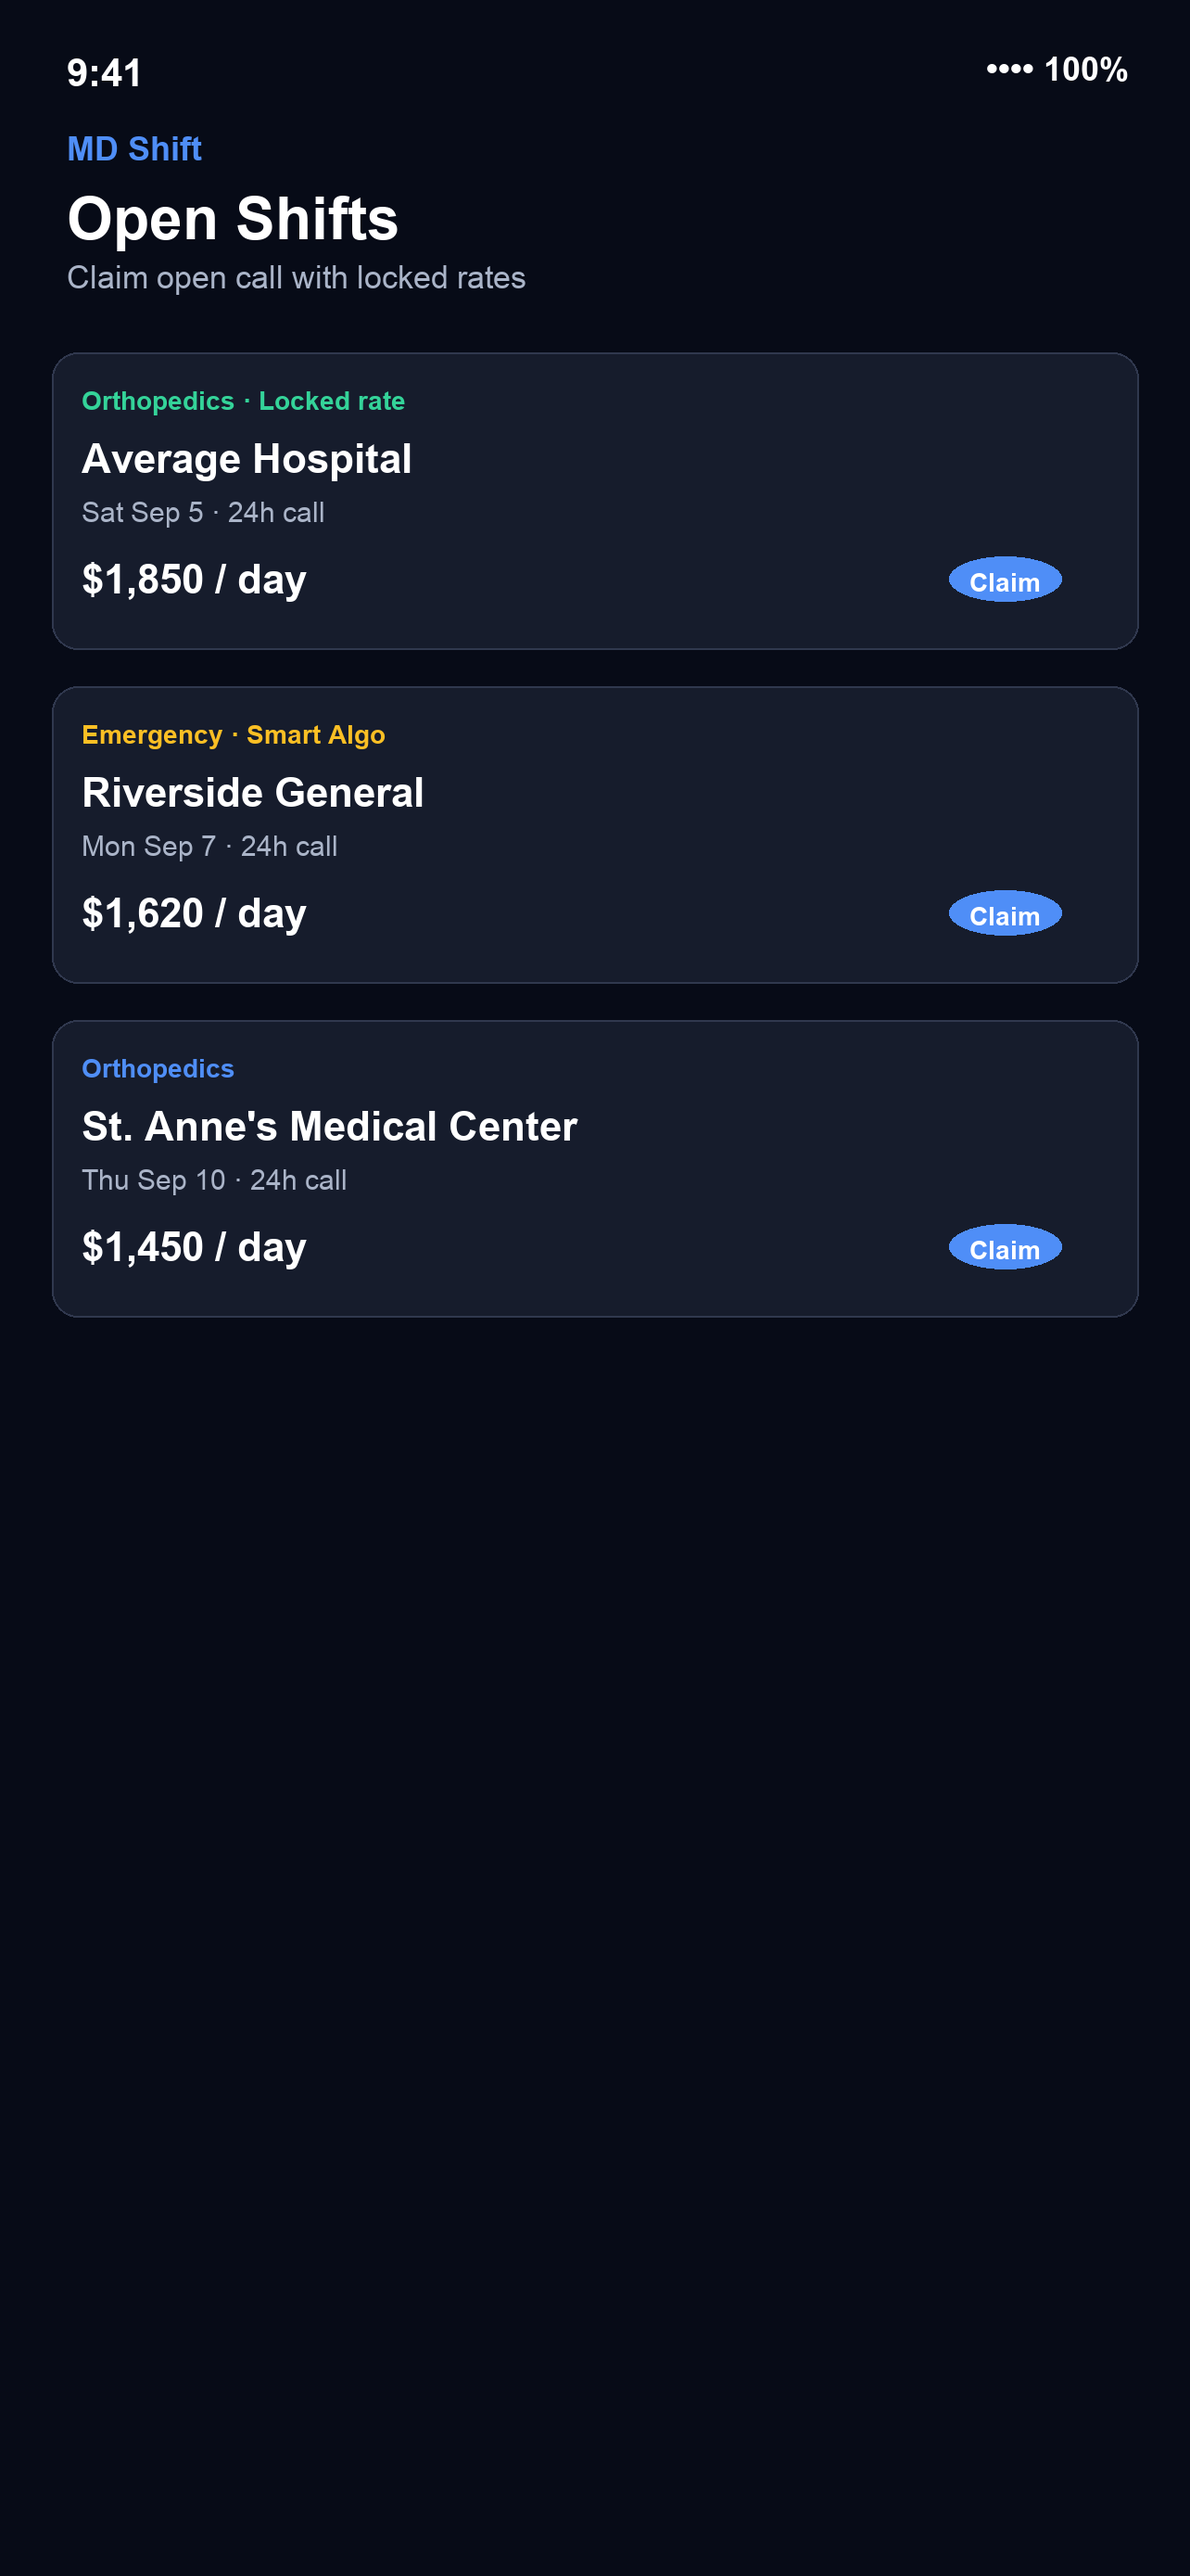
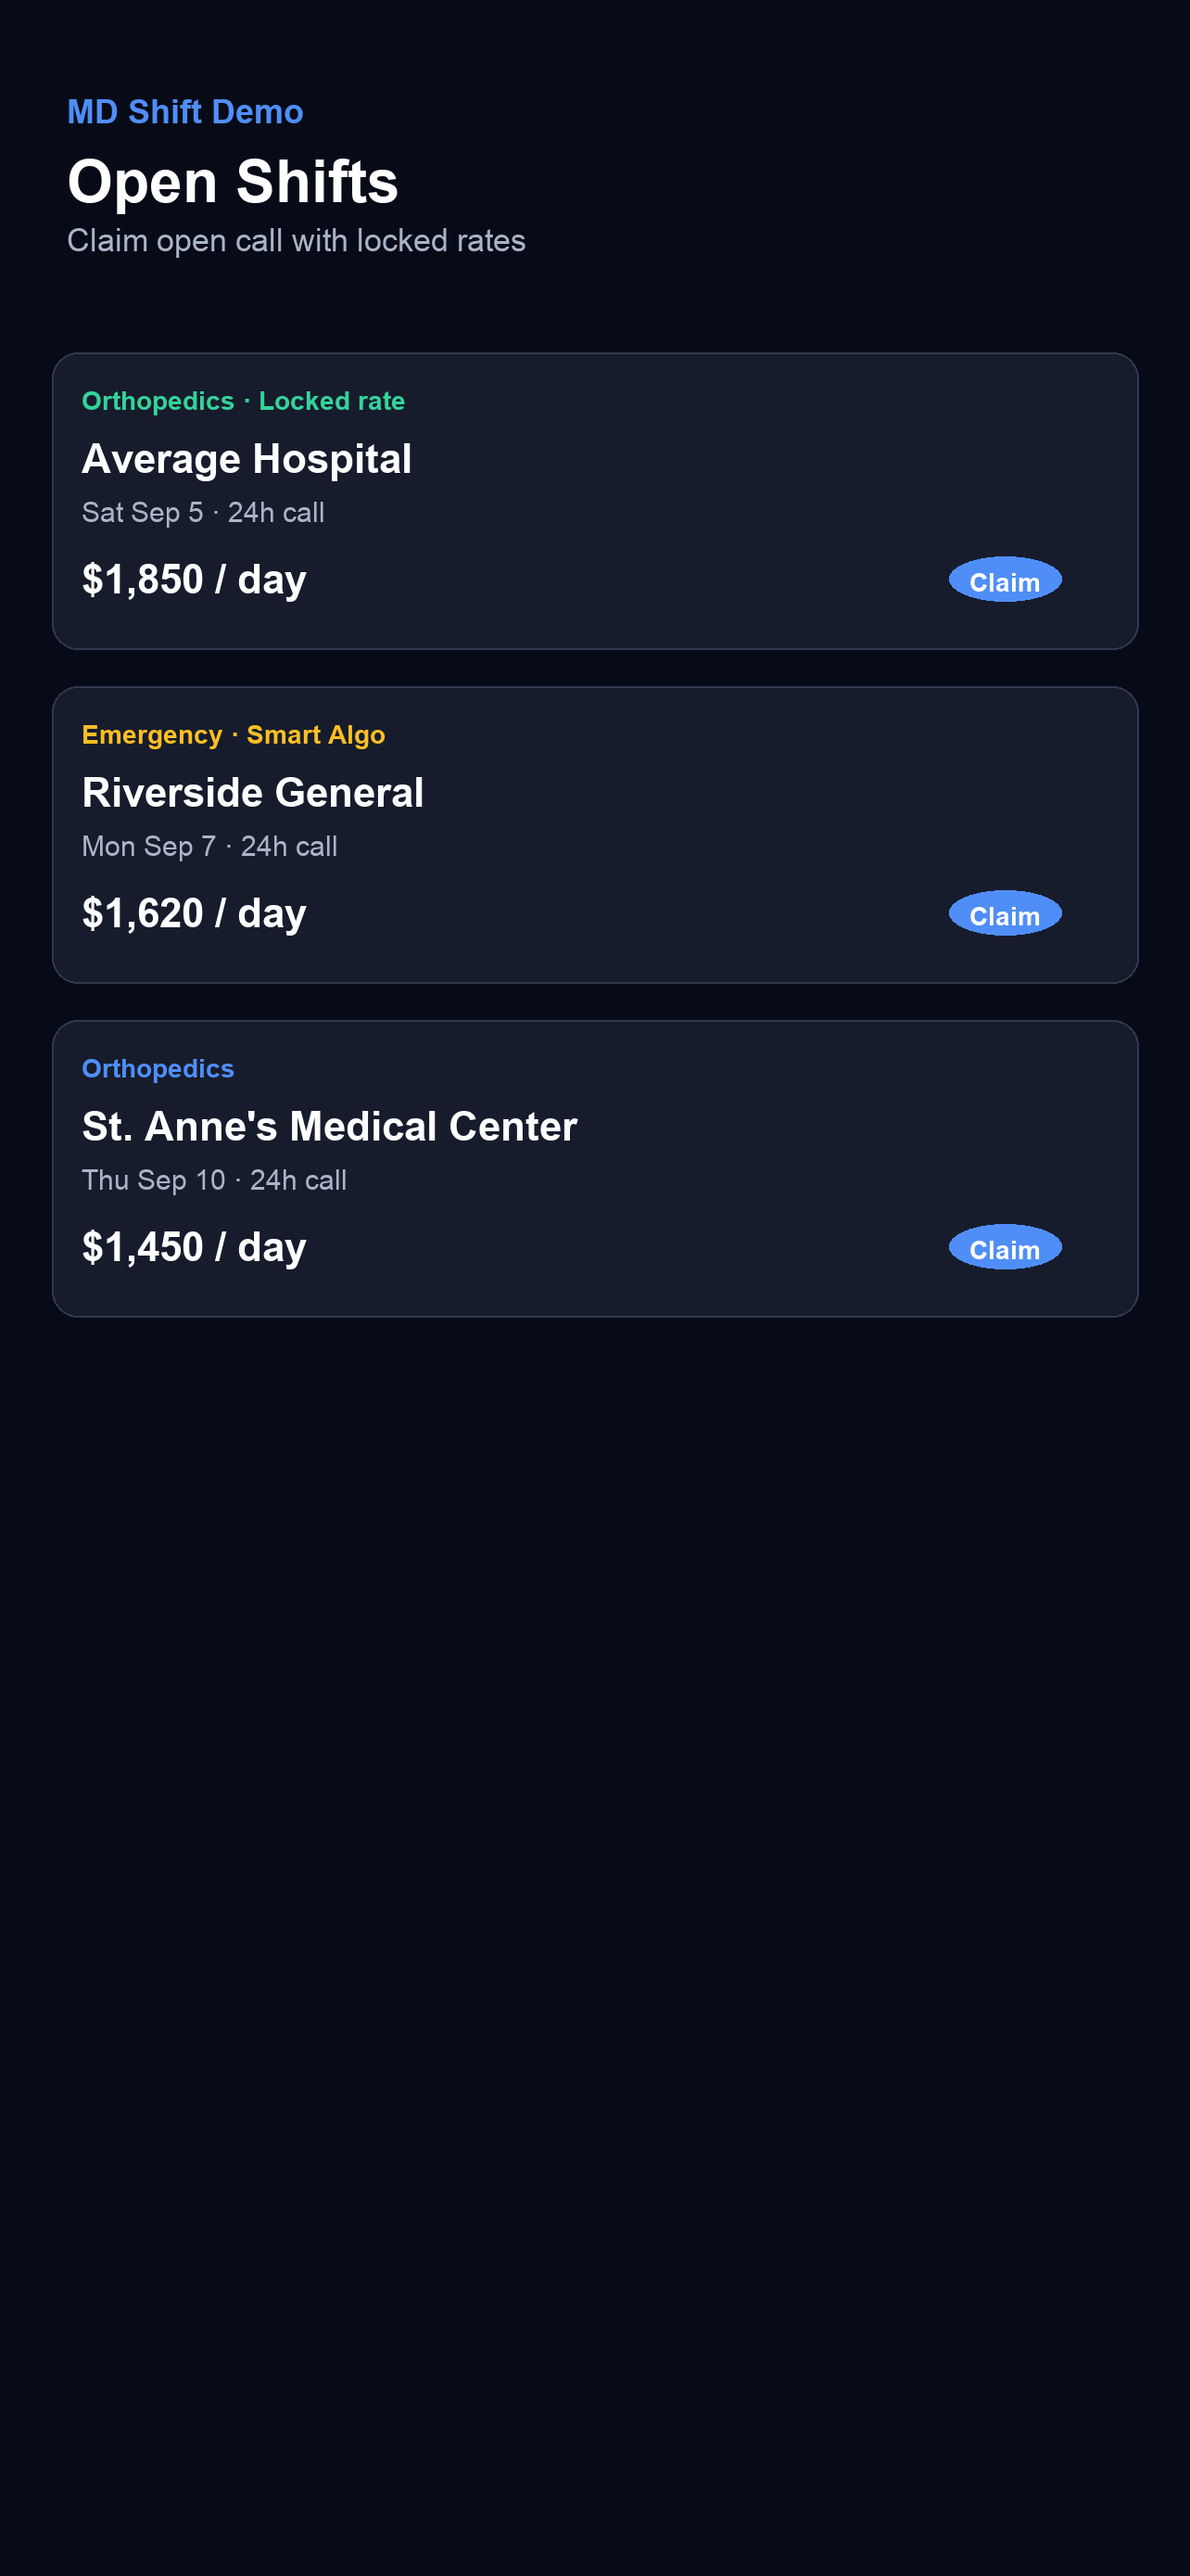
Fix App Review rejection: clean screenshots and harden Apple Sign In.
Remove mock status bars from App Store assets, bump build to 3, improve Apple/OAuth role selection and error messages for reviewers on iPad.

Changed region(s): [[0.0623, 0.0, 0.4361, 0.1238], [0.8723, 0.0, 0.9346, 0.031]]

diff --git a/on-call wizard/AuthView.swift b/on-call wizard/AuthView.swift
@@ -353,23 +353,20 @@ struct AuthView: View {
             .padding(.bottom, 24)
             .onChange(of: mode) { _, _ in errorMessage = nil }
 
-            if mode == .signUp {
-                VStack(alignment: .leading, spacing: 8) {
-                    Text("I am a")
-                        .font(.caption.weight(.semibold))
-                        .foregroundStyle(Brand.textTertiary)
-                        .textCase(.uppercase)
-                    Picker("Role", selection: $selectedRole) {
-                        Text("Doctor").tag(UserRole.doctor)
-                        Text("Hospital").tag(UserRole.hospital)
-                    }
-                    .pickerStyle(.segmented)
-                    .accessibilityLabel("Account role")
+            VStack(alignment: .leading, spacing: 8) {
+                Text("I am a")
+                    .font(.caption.weight(.semibold))
+                    .foregroundStyle(Brand.textTertiary)
+                    .textCase(.uppercase)
+                Picker("Role", selection: $selectedRole) {
+                    Text("Doctor").tag(UserRole.doctor)
+                    Text("Hospital").tag(UserRole.hospital)
                 }
-                .padding(.horizontal, 24)
-                .padding(.bottom, 20)
-                .transition(.opacity)
+                .pickerStyle(.segmented)
+                .accessibilityLabel("Account role")
             }
+            .padding(.horizontal, 24)
+            .padding(.bottom, 20)
 
             VStack(spacing: 10) {
                 Button { startGoogleSignIn() } label: {
@@ -388,9 +385,12 @@ struct AuthView: View {
                     handleAppleResult(result)
                 }
                 .signInWithAppleButtonStyle(colorScheme == .dark ? .white : .black)
+                .frame(maxWidth: .infinity)
                 .frame(height: 50)
                 .clipShape(RoundedRectangle(cornerRadius: Brand.buttonRadius, style: .continuous))
                 .disabled(isLoading || !SupabaseAuthService.shared.isConfigured)
+                .opacity(isLoading || !SupabaseAuthService.shared.isConfigured ? 0.5 : 1)
+                .allowsHitTesting(!isLoading && SupabaseAuthService.shared.isConfigured)
                 .accessibilityLabel("Continue with Apple")
             }
             .padding(.horizontal, 24)
@@ -576,13 +576,20 @@ struct AuthView: View {
         switch result {
         case .failure(let error):
             let ns = error as NSError
-            if ns.code == ASAuthorizationError.canceled.rawValue { return }
+            if ns.domain == ASAuthorizationError.errorDomain,
+               ns.code == ASAuthorizationError.canceled.rawValue { return }
+            if ns.domain == ASAuthorizationError.errorDomain,
+               ns.code == ASAuthorizationError.unknown.rawValue {
+                // Common on first-run / iPad when the sheet dismisses oddly — don't block review with a cryptic code.
+                errorMessage = "Apple Sign In did not complete. Try again, or use Explore as a doctor / hospital."
+                return
+            }
             errorMessage = error.localizedDescription
         case .success(let authorization):
             guard let credential = authorization.credential as? ASAuthorizationAppleIDCredential,
                   let tokenData = credential.identityToken,
                   let idToken = String(data: tokenData, encoding: .utf8) else {
-                errorMessage = "Apple Sign In failed."
+                errorMessage = "Apple Sign In failed. Try Explore as a doctor / hospital, or email sign-in."
                 return
             }
             isLoading = true
@@ -595,7 +602,9 @@ struct AuthView: View {
                         nonce: nonce,
                         role: selectedRole
                     )
-                    let resolved = result.email.isEmpty ? (credential.email ?? "apple-user") : result.email
+                    let resolved = result.email.isEmpty
+                        ? (credential.email ?? "apple-user-\(result.userID.uuidString.prefix(8))@privaterelay.appleid.com")
+                        : result.email
                     await MainActor.run {
                         if result.needsMfa {
                             isLoading = false

diff --git a/on-call wizard/Supabase/SupabaseConfig.swift b/on-call wizard/Supabase/SupabaseConfig.swift
@@ -78,10 +78,32 @@ struct SupabaseHTTPClient {
         let (data, response) = try await URLSession.shared.data(for: req)
         guard let http = response as? HTTPURLResponse else { throw SupabaseError.invalidResponse }
         guard (200..<300).contains(http.statusCode) else {
-            let msg = String(data: data, encoding: .utf8) ?? "HTTP \(http.statusCode)"
-            throw SupabaseError.server(msg)
+            throw SupabaseError.server(Self.humanizeError(data: data, status: http.statusCode))
         }
         return data
+    }
+
+    /// Prefer a short user-facing message over raw GoTrue / PostgREST JSON blobs.
+    private static func humanizeError(data: Data, status: Int) -> String {
+        guard let json = try? JSONSerialization.jsonObject(with: data) as? [String: Any] else {
+            return String(data: data, encoding: .utf8) ?? "HTTP \(status)"
+        }
+        let raw = (json["error_description"] as? String)
+            ?? (json["msg"] as? String)
+            ?? (json["message"] as? String)
+            ?? (json["error"] as? String)
+            ?? "HTTP \(status)"
+        let lower = raw.lowercased()
+        if lower.contains("audience") || lower.contains("unacceptable") {
+            return "Apple Sign In is not configured for this app. Please try Explore mode or email sign-in."
+        }
+        if lower.contains("nonce") {
+            return "Apple Sign In could not be verified. Please try again."
+        }
+        if lower.contains("id token") || lower.contains("id_token") || lower.contains("provider is not enabled") {
+            return "Sign in with Apple is temporarily unavailable. Use Explore as a doctor/hospital, or email sign-in."
+        }
+        return raw
     }
 
     func invokeFunction(name: String, body: [String: Any], accessToken: String? = nil) async throws -> Data {

diff --git a/docs/assets/js/views/auth.js b/docs/assets/js/views/auth.js
@@ -168,12 +168,11 @@ export function renderAuthView(state, handlers) {
           <button type="button" class="${mode === "signin" ? "active" : ""}" data-auth-mode="signin">Sign in</button>
           <button type="button" class="${mode === "signup" ? "active" : ""}" data-auth-mode="signup">Create account</button>
         </div>
-        ${mode === "signup" ? `
-          <div class="eyebrow" style="padding:0 24px 8px">I AM A</div>
-          <div class="role-pills">
-            <button type="button" class="role-pill ${state.role === "Doctor" ? "active" : ""}" data-role="Doctor">${icon("stethoscope")} Doctor</button>
-            <button type="button" class="role-pill ${state.role === "Hospital" ? "active" : ""}" data-role="Hospital">${icon("hospital")} Hospital</button>
-          </div>` : ""}
+        <div class="eyebrow" style="padding:0 24px 8px">I AM A</div>
+        <div class="role-pills">
+          <button type="button" class="role-pill ${state.role === "Doctor" ? "active" : ""}" data-role="Doctor">${icon("stethoscope")} Doctor</button>
+          <button type="button" class="role-pill ${state.role === "Hospital" ? "active" : ""}" data-role="Hospital">${icon("hospital")} Hospital</button>
+        </div>
         <div class="oauth-row">
           <button type="button" class="btn-oauth" data-oauth="google" ${state.loading || !isConfigured() ? "disabled" : ""}>
             ${googleMark()} Continue with Google

diff --git a/scripts/generate-app-store-screenshots.py b/scripts/generate-app-store-screenshots.py
@@ -50,16 +50,11 @@ def round_rect(draw: ImageDraw.ImageDraw, xy, radius: int, fill, outline=None, w
     draw.rounded_rectangle(xy, radius=radius, fill=fill, outline=outline, width=width)
 
 
-def status_bar(draw: ImageDraw.ImageDraw, y: int = 54):
-    draw.text((72, y), "9:41", font=font(42, True), fill=TEXT)
-    draw.text((W - 220, y), "•••• 100%", font=font(36, True), fill=TEXT)
-
-
 def brand_header(draw: ImageDraw.ImageDraw, title: str, subtitle: str):
-    status_bar(draw)
-    draw.text((72, 140), "MD Shift", font=font(36, True), fill=ACCENT)
-    draw.text((72, 200), title, font=font(64, True), fill=TEXT)
-    draw.text((72, 280), subtitle, font=font(34), fill=TEXT2)
+    # No fake status bar — Apple rejects non-iOS / mock status chrome (Guideline 2.3.10).
+    draw.text((72, 100), "MD Shift Demo", font=font(36, True), fill=ACCENT)
+    draw.text((72, 160), title, font=font(64, True), fill=TEXT)
+    draw.text((72, 240), subtitle, font=font(34), fill=TEXT2)
 
 
 def card(draw: ImageDraw.ImageDraw, x0, y0, x1, y1):

diff --git a/AppStore/REVIEW.md b/AppStore/REVIEW.md
@@ -12,7 +12,7 @@ Paste these into App Store Connect. Screenshots live in `../AppStoreScreenshots/
 | Primary category | Medical |
 | Secondary | Business (optional) |
 | Version | 1.0 |
-| Build | 2 |
+| Build | 3 |
 | Copyright | 2026 Edward Dunn / MD Shift |
 
 ## URLs
@@ -72,28 +72,42 @@ First release of MD Shift Demo — hospital on-call coverage, doctor shift claim
 ## App Review Information — Notes (paste as-is)
 
 ```
-MD Shift Demo schedules hospital on-call coverage for doctors and hospitals.
+Hi App Review team,
 
-HOW TO REVIEW (recommended)
-1. On the sign-in screen, tap “Explore as doctor” or “Explore as hospital”.
-2. No password required. Sample data loads so you can browse Dashboard / Alter Rates / Doctors (hospital) or Home / Open Shifts / Trades (doctor).
-3. Explore mode is labeled as sample data and is not live hospital volume.
+Thanks for the follow-up on MD Shift Demo 1.0 (3).
 
-ALTERNATE LOGINS (seeded demos)
-• Doctor: jdunn@eporthospine.com / 1234567890
-• Hospital: erdunn706@gmail.com / 1234567890
-If Supabase auth is reachable these prefer the live account; otherwise they open the same seeded walkthrough.
+SCREENSHOTS (2.3.10)
+We replaced the App Store screenshots. The previous set had a mock status bar (text signal / battery). The new set has no status bar chrome and shows the in-app UI only. Please use the updated iPhone 6.5" assets (and View All Sizes in Media Manager if needed).
 
-ADMIN PREVIEW (marketing-style screens, optional)
-• info@erdanimates.shop / 1234567890
-Opens a curated preview of core screens. Prefer Explore mode for functional review.
+SIGN IN WITH APPLE (2.1a)
+Sign in with Apple is supported on iPhone and iPad. Choose Doctor or Hospital on the sign-in screen, then Continue with Apple.
 
-Face ID may appear after a real account is created; it can be skipped / cancelled on Simulator.
+If you only need to exercise scheduling features without creating an Apple account:
+1. Tap Explore as a doctor or Explore as a hospital (no password).
+2. Or use demo login jdunn@eporthospine.com / 1234567890 (doctor) or erdunn706@gmail.com / 1234567890 (hospital).
+
+Account deletion is not in-app; users email https://mdshift.net/support/
 
 Support: https://mdshift.net/support/
 Privacy: https://mdshift.net/privacypolicy/
 Contact: erdunn706@gmail.com
 ```
+
+## Fix checklist after Sept 2026 rejection
+
+### Screenshots (2.3.10)
+1. Upload all `AppStoreScreenshots/*-1284x2778.png` to App Store Connect → Previews and Screenshots.
+2. Also open **View All Sizes in Media Manager** and replace any leftover sizes that still show a mock status bar.
+
+### Sign in with Apple (2.1a) — Supabase dashboard (required)
+Native Apple tokens use the **Bundle ID** as audience. In Supabase:
+
+1. Authentication → Providers → **Apple** → Enabled
+2. **Client IDs** must include BOTH (Services ID first):
+   `com.eporthospine.mdshift.web,com.eporthospine.mdshift`
+3. Secret JWT must be valid if web Apple is enabled (regenerate if older than ~6 months)
+4. Apple Developer → Identifiers → App ID `com.eporthospine.mdshift` → Sign In with Apple ON
+5. Rebuild / upload build **3**, then test Continue with Apple on an iPad simulator or device before resubmitting
 
 ## Demo account (App Review form)
 
